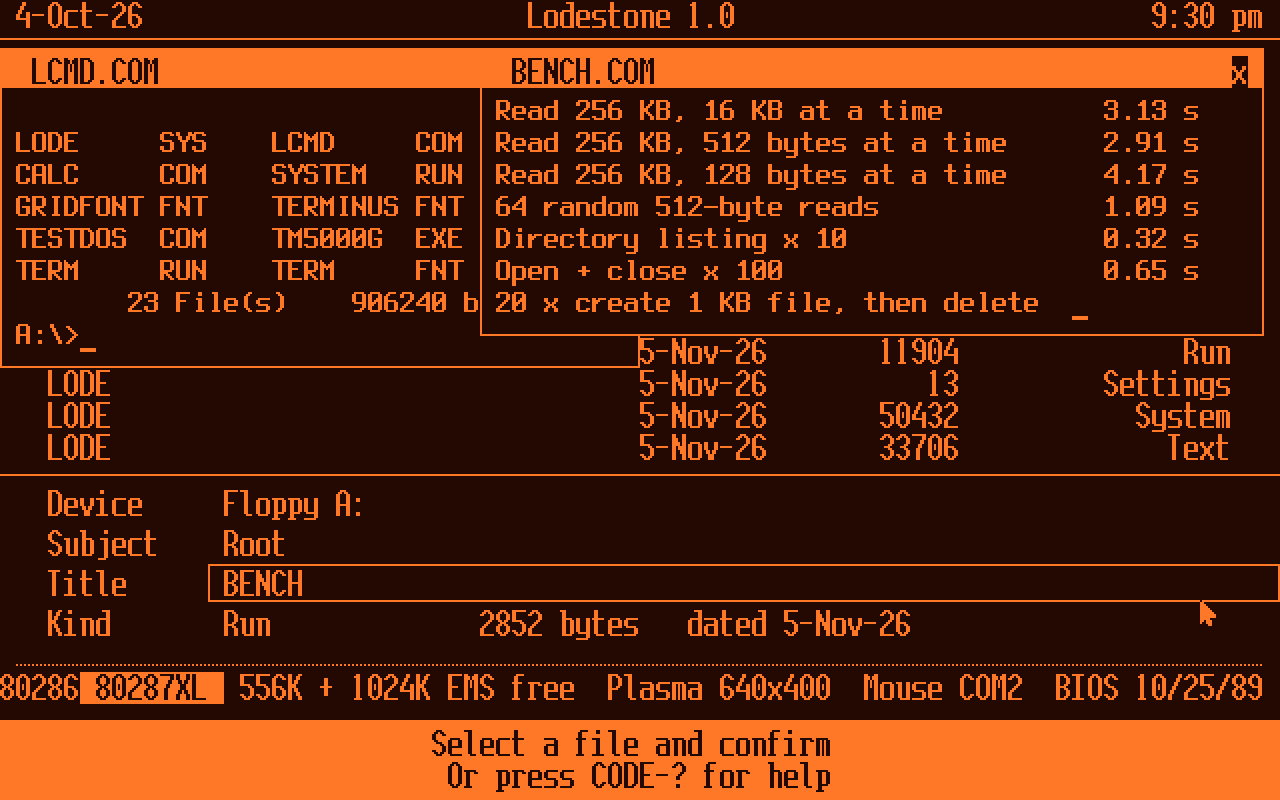
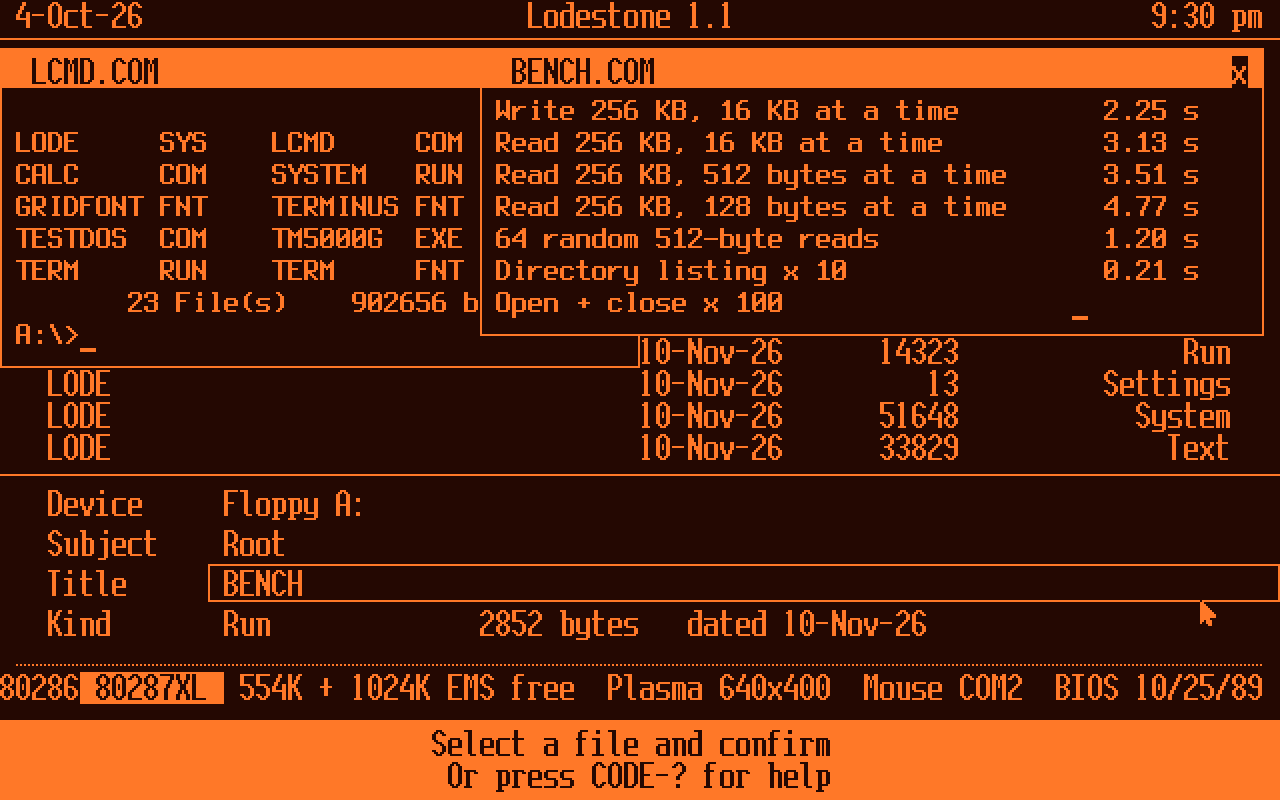
README: screenshots retaken on 1.1; CHKDSK and FORMAT at the prompt
The emulator screenshots showed Lodestone 1.0 and its memory figures.
readme_shots.py now also takes CHKDSK of A: and FORMAT B: /S, the
first screenshots of the DOS 3.30 utilities.

diff --git a/os/screens/readme_shots.py b/os/screens/readme_shots.py
@@ -92,4 +92,21 @@ keys(0x6F00); arrows(-29, -11)          # 51 columns, 8 rows ...
 keys(0x6E00); arrows(28, -4)            # ... at the right, level with LCMD's
 k.run_for(6.0); shot('multitasking')
 keys(CODE['T'], t=1.0); shot('tasks')    # CODE-T: the tasks, over them
+# DOS 3.30's utilities at the prompt (ROM 2's, here on the floppy): CHKDSK
+# of A:, then FORMAT B: /S on a disk never formatted
+util = [os.path.join(GOS, 'src', f) for f in ('LODE.SYS', 'LODEMT.SYS', 'LODE.PIC', 'LCMD.COM', 'CHKDSK.COM',
+        'FORMAT.COM')] + ['DOCS\\', 'DOCS\\NOTES.TXT=' + os.path.join(GOS, 'src', 'LODE.TXT'),
+        'DOCS\\LETTERS\\', 'WORK\\', 'WORK\\BENCH\\', 'WORK\\BENCH\\BENCH.COM=' + os.path.join(GOS, 'bench', 'BENCH.COM'),
+        'WORK\\PLOTS\\']
+img = mkimg.build(os.path.join(TMP, 'util.img'), util)
+bimg = os.path.join(TMP, 'util_b.img'); open(bimg, 'wb').write(bytes(1474560))
+k = ktest.KPC(img, bimg, ems_pages=88); k.pc.drives[1].noid = set(range(2880)); k.start(20); k.code_p()
+scr = lambda: k.pc.text_screen()
+for c in ('cls', 'chkdsk'):
+    k.key(c, ktest.ENTER); k.settle(20)
+shot('chkdsk')
+k.key('cls', ktest.ENTER); k.key('format b: /s /v:WORK', ktest.ENTER, settle=False)
+k.pc.run_until(lambda: 'strike ENTER' in scr(), 20); k.key(ktest.ENTER, settle=False)
+k.pc.run_until(lambda: 'another (Y/N)?' in scr(), 400); k.key('n'); k.settle(20)
+shot('format')
 print('\n'.join(sorted(os.listdir(OUT))))

diff --git a/README.md b/README.md
@@ -16,6 +16,8 @@ Lodestone also connects the GRiD to Claude. Through a Raspberry Pi on the GPIB b
 | System: where the 640 KB goes, and the EMS | System: the floppy, the internal hard disk as C: (the 1520's own 121 MB Conner layout) and M:, the RAM disk |
 | ![Write](os/screens/readme/write.png) | ![BENCH](os/screens/readme/bench.png) |
 | Write, a GRiDWrite-style editor | BENCH 1.4 on Lodestone with EMS |
+| ![CHKDSK](os/screens/readme/chkdsk.png) | ![FORMAT B: /S](os/screens/readme/format.png) |
+| CHKDSK at the prompt, as DOS 3.30's (ROM 2's utilities) | FORMAT B: /S on a disk never formatted: each track verified, the system copied |
 | ![The calculator](os/screens/readme/calculator.png) | ![CALC at the prompt](os/screens/readme/calc_prompt.png) |
 | The calculator over the Executive (CODE-K); the coprocessor lit in the info line (the emulator's is 387-class, so it reads as a 287XL) | `CALC` at the command prompt: sums, errors with ERRORLEVEL, `name=` for batch files |
 | ![Claude Code on the GRiD](os/screens/readme/claude_code.png) | ![A plot from Claude Code](os/screens/readme/claude_plot.png) |
